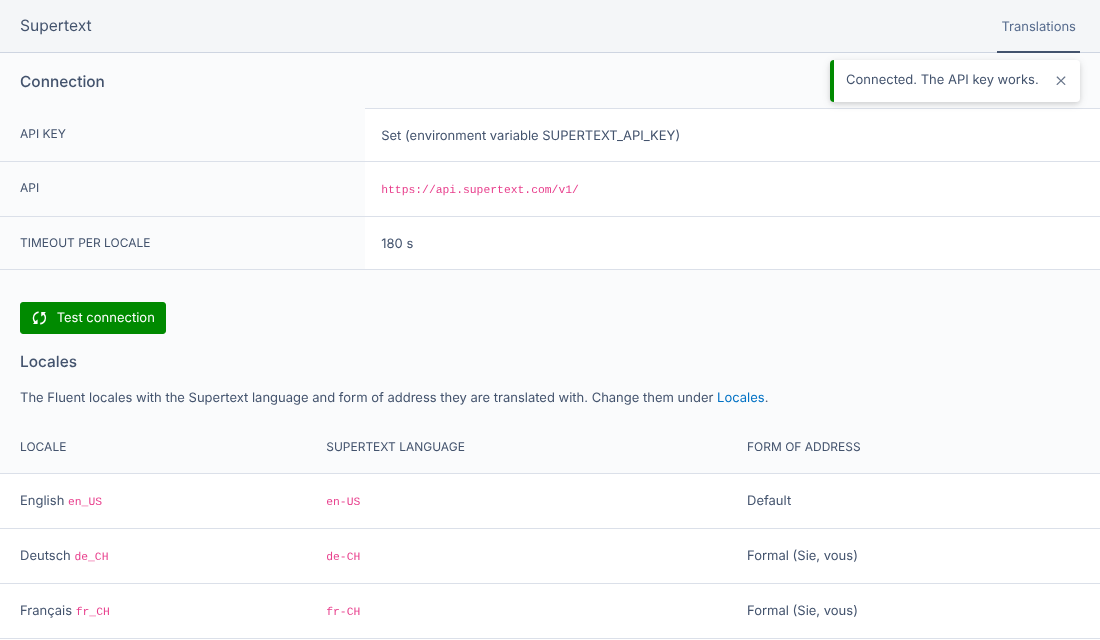
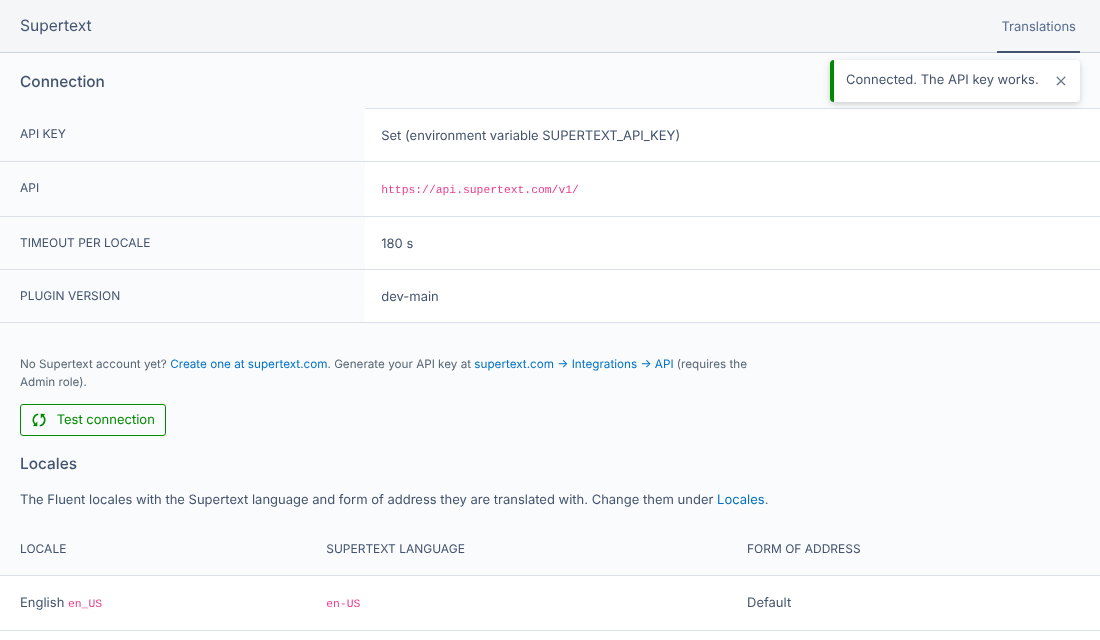
Show the plugin version in the Supertext admin section
The Connection panel gets a "Plugin version" row (German: "Plugin-Version"),
read at runtime from Composer\InstalledVersions and linked to the GitHub
release for X.Y.Z / vX.Y.Z versions. Docs, changelog and the admin
screenshot updated; the screenshot script now shows the section from the top.

Claude-Session: https://claude.ai/code/session_01EnSTWcWHurd9UcMU2SVApV

diff --git a/src/Control/SupertextAdmin.php b/src/Control/SupertextAdmin.php
@@ -15,6 +15,7 @@ use SilverStripe\Security\Permission;
 use SilverStripe\View\Requirements;
 use Supertext\Silverstripe\Api\SupertextException;
 use Supertext\Silverstripe\Model\TranslationLog;
+use Supertext\Silverstripe\PluginVersion;
 use Supertext\Silverstripe\Supertext;
 use TractorCow\Fluent\Control\LocaleAdmin;
 use TractorCow\Fluent\Model\Locale;
@@ -110,6 +111,7 @@ class SupertextAdmin extends ModelAdmin
                 <tr><th>%s</th><td>%s</td></tr>
                 <tr><th>%s</th><td><code data-supertext-endpoint>%s</code></td></tr>
                 <tr><th>%s</th><td>%d s</td></tr>
+                <tr><th>%s</th><td>%s</td></tr>
             </tbody></table><p class="supertext-help">%s</p></div>',
             _t(self::class . '.CONNECTION', 'Connection'),
             _t(self::class . '.API_KEY', 'API key'),
@@ -118,12 +120,26 @@ class SupertextAdmin extends ModelAdmin
             Convert::raw2xml($settings->baseUrl()),
             _t(self::class . '.TIMEOUT', 'Timeout per locale'),
             $settings->timeout(),
+            _t(self::class . '.VERSION', 'Plugin version'),
+            $this->versionHtml(),
             _t(
                 self::class . '.KEY_HELP',
                 'No Supertext account yet? <a href="{signup}" target="_blank" rel="noopener">Create one at supertext.com</a>. Generate your API key at <a href="{apikey}" target="_blank" rel="noopener">supertext.com → Integrations → API</a> (requires the Admin role).',
                 ['signup' => Supertext::SIGNUP_URL, 'apikey' => Supertext::API_KEY_URL]
             )
         );
+    }
+
+    /** The installed version, linked to its GitHub release when it is one (X.Y.Z). */
+    private function versionHtml(): string
+    {
+        $version = PluginVersion::current();
+        $url = PluginVersion::releaseUrl($version);
+        if ($url === null) {
+            return Convert::raw2xml($version);
+        }
+
+        return sprintf('<a href="%s" target="_blank" rel="noopener">%s</a>', Convert::raw2att($url), Convert::raw2xml($version));
     }
 
     private function localesHtml(): string

diff --git a/src/PluginVersion.php b/src/PluginVersion.php
@@ -1,0 +1,42 @@
+<?php
+
+namespace Supertext\Silverstripe;
+
+use Composer\InstalledVersions;
+
+/**
+ * The module's version as Composer installed it (the Git tag of the release, e.g. "0.1.0", or a
+ * branch such as "dev-main"). No Silverstripe classes, so it is unit-tested on its own.
+ */
+final class PluginVersion
+{
+    public const PACKAGE = 'supertext/silverstripe-supertext-translation';
+
+    public const RELEASES_URL = 'https://github.com/Supertext/Silverstripe-Supertext-Translation/releases/tag/';
+
+    public static function current(): string
+    {
+        try {
+            if (class_exists(InstalledVersions::class) && InstalledVersions::isInstalled(self::PACKAGE)) {
+                $version = InstalledVersions::getPrettyVersion(self::PACKAGE);
+                if (is_string($version) && $version !== '') {
+                    return $version;
+                }
+            }
+        } catch (\Throwable) {
+            // Fall through: Composer's runtime data is missing or unreadable.
+        }
+
+        return 'unknown';
+    }
+
+    /** Release page for a version like "0.1.0" or "v0.1.0"; null for branches and "unknown". */
+    public static function releaseUrl(string $version): ?string
+    {
+        if (preg_match('/^v?(\d+\.\d+\.\d+)$/', $version, $m) !== 1) {
+            return null;
+        }
+
+        return self::RELEASES_URL . 'v' . $m[1];
+    }
+}

diff --git a/tests/unit/PluginVersionTest.php b/tests/unit/PluginVersionTest.php
@@ -1,0 +1,28 @@
+<?php
+
+namespace Supertext\Silverstripe\Tests\unit;
+
+use PHPUnit\Framework\TestCase;
+use Supertext\Silverstripe\PluginVersion;
+
+class PluginVersionTest extends TestCase
+{
+    public function testReleaseVersionsLinkToTheirGitHubRelease(): void
+    {
+        $url = 'https://github.com/Supertext/Silverstripe-Supertext-Translation/releases/tag/v0.1.0';
+        self::assertSame($url, PluginVersion::releaseUrl('0.1.0'));
+        self::assertSame($url, PluginVersion::releaseUrl('v0.1.0'));
+    }
+
+    public function testOtherVersionsHaveNoLink(): void
+    {
+        foreach (['dev-main', 'unknown', '0.1.0-beta1', '1.2', 'v1.2.3.4', ''] as $version) {
+            self::assertNull(PluginVersion::releaseUrl($version), $version);
+        }
+    }
+
+    public function testCurrentNeverReturnsAnEmptyString(): void
+    {
+        self::assertNotSame('', PluginVersion::current());
+    }
+}

diff --git a/docs/INSTALLATION.md b/docs/INSTALLATION.md
@@ -23,7 +23,7 @@ vendor/bin/sake db:build --flush
 `db:build` adds the table `SupertextTranslation` (the translation log) and two fields to Fluent's locales. The module adds:
 
 - a **Supertext** tab to every page in the CMS (for users with the Supertext permission),
-- a **Supertext** section in the CMS menu: connection status, *Test connection* (administrators), the locales and the translation log,
+- a **Supertext** section in the CMS menu: connection status, the installed plugin version, *Test connection* (administrators), the locales and the translation log,
 - *Supertext language* and *Form of address* to each locale under **Locales**,
 - the tasks `supertext-translate` and `supertext-check`.
 
@@ -34,7 +34,7 @@ composer update supertext/silverstripe-supertext-translation
 vendor/bin/sake db:build --flush
 ```
 
-See [CHANGELOG.md](../CHANGELOG.md).
+See [CHANGELOG.md](../CHANGELOG.md). The installed version is shown under **Supertext → Connection → Plugin version** (as Composer installed it: a release such as `0.1.0`, linked to its release notes on GitHub, or a branch such as `dev-main`; `unknown` if Composer's data isn't available).
 
 ### Uninstall
 
@@ -62,7 +62,7 @@ You can paste it with or without the `Supertext-Auth-Key ` prefix that Supertext
 
 Check it under **Supertext → Test connection** (administrators) or with `vendor/bin/sake tasks:supertext-check`. Both call a cost-free endpoint of the Supertext API.
 
-![The Supertext section: "Connected. The API key works.", the API key's source, the live API address, the timeout, the Test connection button, and the locales with their Supertext language and form of address](images/06-supertext-admin.png)
+![The Supertext section: "Connected. The API key works.", the API key's source, the live API address, the timeout, the plugin version, the links to create a Supertext account and generate the API key, the Test connection button, and the locales with their Supertext language and form of address](images/06-supertext-admin.png)
 
 ## Locales
 

diff --git a/docs/DEVELOPER.md b/docs/DEVELOPER.md
@@ -32,7 +32,8 @@ apply(): in the target locale (draft): set the fields on each owned object and t
 | `src/Extension/SupertextPageExtension.php` | The Supertext tab (fields are not saved into the record: `saveSupertext*()` no-ops) |
 | `src/Extension/SupertextCMSMainExtension.php` | The form action on `CMSMain` |
 | `src/Extension/LocaleExtension.php` | `SupertextCode`, `SupertextPoliteness` on Fluent's `Locale` |
-| `src/Control/SupertextAdmin.php` | The *Supertext* CMS section: status, *Test connection*, locales, log |
+| `src/Control/SupertextAdmin.php` | The *Supertext* CMS section: status, plugin version, *Test connection*, locales, log |
+| `src/PluginVersion.php` | The installed version from `Composer\InstalledVersions` (no second copy in the code) and its GitHub release link for `X.Y.Z` / `vX.Y.Z`; no Silverstripe classes, unit-tested |
 | `src/Model/TranslationLog.php` | Table `SupertextTranslation`: one row per record and target locale and run |
 | `src/Task/` | `sake tasks:supertext-translate --page=<id> --from=en_US [--to=de_CH,fr_CH] [--overwrite] [--member=<email>]`, `sake tasks:supertext-check` |
 | `client/` | Tab script (overwrite option, busy state, submitting buttons outside the toolbar) and styles, exposed to `_resources` |

diff --git a/CHANGELOG.md b/CHANGELOG.md
@@ -4,6 +4,10 @@ All notable changes to this project are documented here. The format follows [Kee
 
 ## Unreleased
 
+### Added
+
+- The **Supertext** CMS section shows the installed plugin version under *Connection*, linked to its GitHub release notes for released versions.
+
 ## 0.1.0 — 2026-10-07
 
 ### Added
